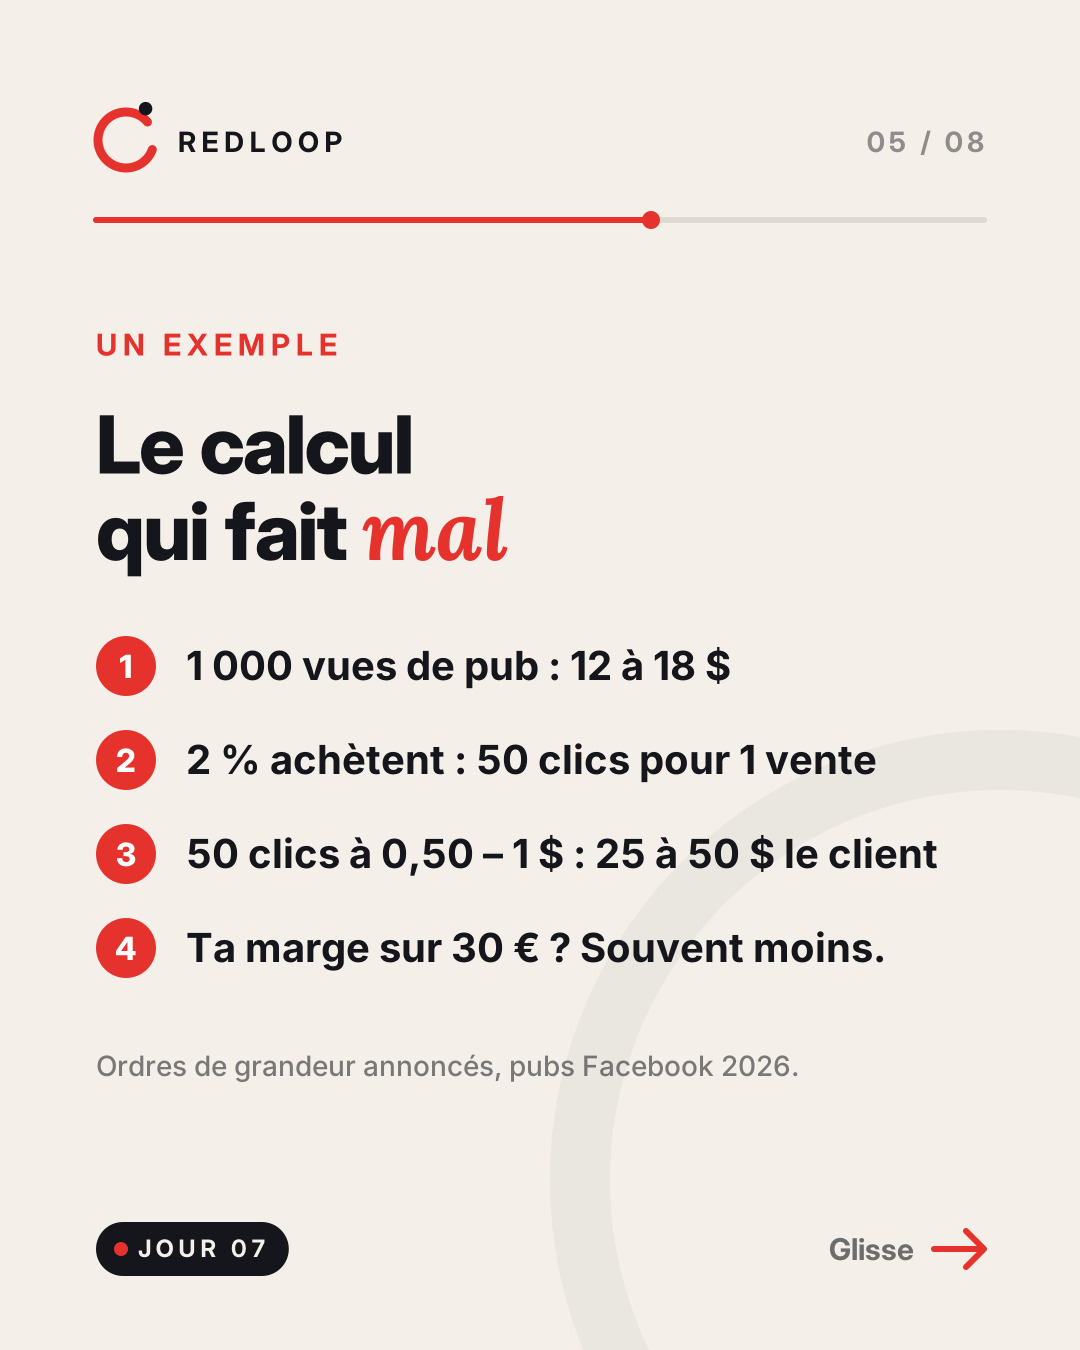
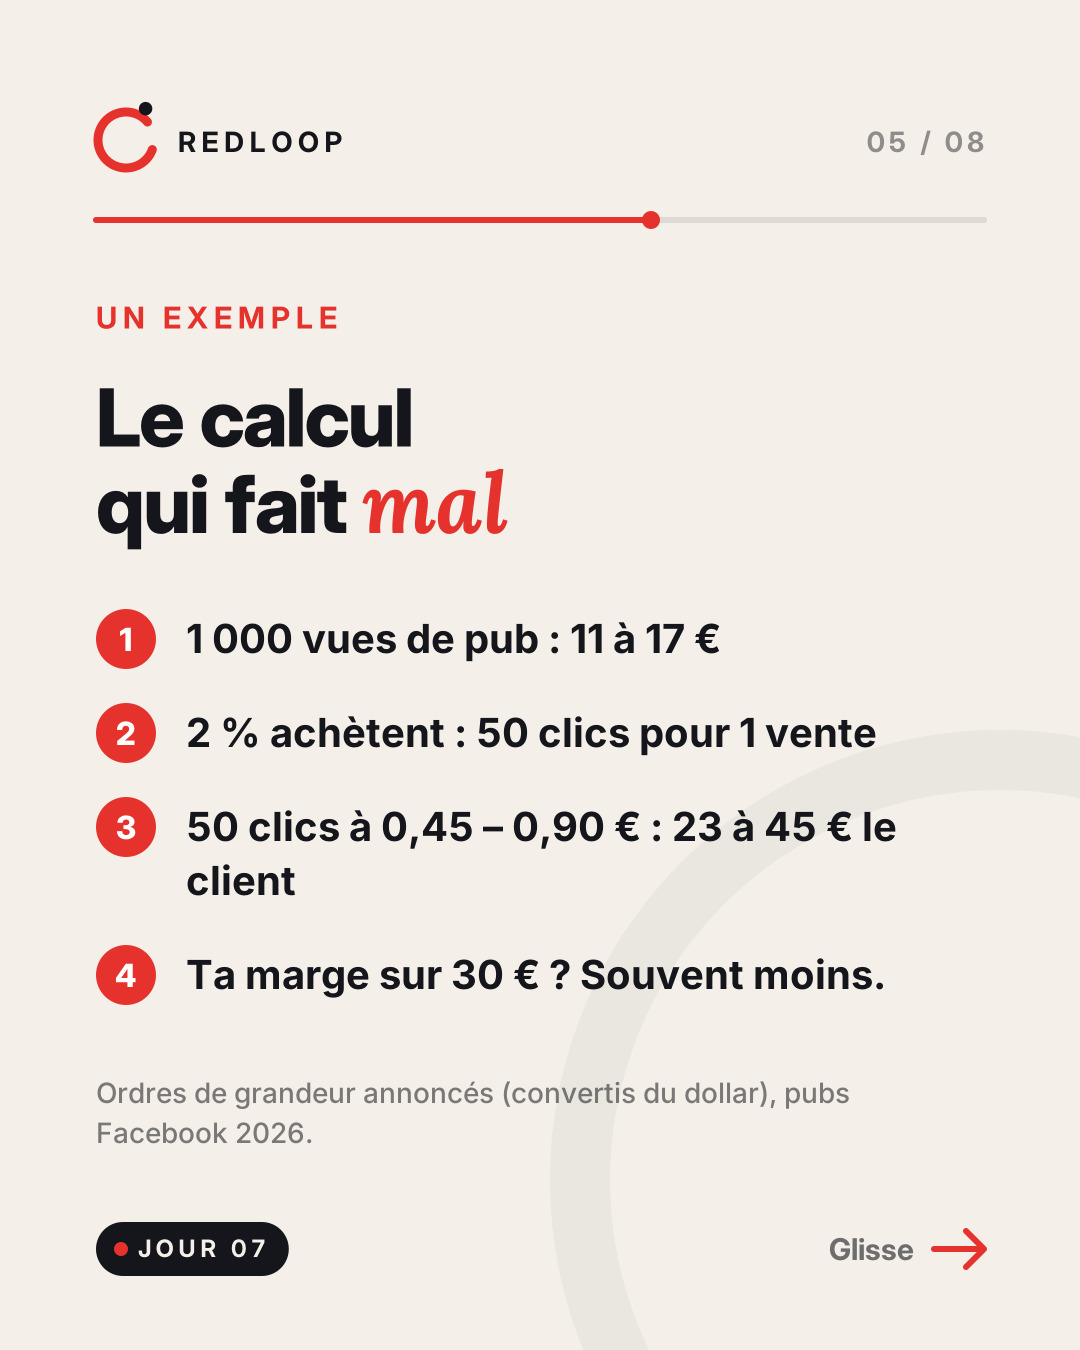
Calc slide in euros
Claude-Session: https://claude.ai/code/session_01MjHNHLtyk6pBPoVN5YbS1c

Changed region(s): [[0.0917, 0.2178, 0.8861, 0.7467], [0.0917, 0.7778, 0.7944, 0.8711]]

diff --git a/motion/carousel_erreurs.py b/motion/carousel_erreurs.py
@@ -66,7 +66,7 @@ ERR1 = [T("ERREUR N°1", ["Créer son", "entreprise", "*avant* le trafic."], "La
         P("LE SCÉNARIO CLASSIQUE", ["Ce que presque", "tout le monde fait"], ["Trouver une idée de produit", "Créer le logo, le site, la boutique", "Mettre en ligne", "Et attendre les clients…"]),
         T("CE QUI SE PASSE", ["*Personne*", "ne vient."], "Un site sans audience, c'est une boutique dans une rue où personne ne passe.", 140),
         T("LE PIÈGE", ["Alors on paie", "des *pubs.*"], "Et souvent, chaque client coûte plus cher que ce qu'il rapporte.", 130),
-        P("UN EXEMPLE", ["Le calcul", "qui fait *mal*"], ["1 000 vues de pub : 12 à 18 $", "2 % achètent : 50 clics pour 1 vente", "50 clics à 0,50 – 1 $ : 25 à 50 $ le client", "Ta marge sur 30 € ? Souvent moins."], "Ordres de grandeur annoncés, pubs Facebook 2026."),
+        P("UN EXEMPLE", ["Le calcul", "qui fait *mal*"], ["1 000 vues de pub : 11 à 17 €", "2 % achètent : 50 clics pour 1 vente", "50 clics à 0,45 – 0,90 € : 23 à 45 € le client", "Ta marge sur 30 € ? Souvent moins."], "Ordres de grandeur annoncés (convertis du dollar), pubs Facebook 2026."),
         V("LE MÊME CHEMIN, À L'ENDROIT", "LE RÉFLEXE", ["Produit → boutique", "→ pubs → espoir"], "CE QUI MARCHE", ["Audience → écoute", "→ produit → ventes"]),
         T("CE QU'ON FAIT ICI", ["On construit", "l'audience", "*d'abord.*"], "Ce compte est l'expérience : on vendra seulement ce que vous nous demanderez."),
         T("À TOI", ["Tu as déjà", "fait cette", "*erreur ?*"], "Raconte en commentaire. Et suis le défi pour voir la suite.")]
